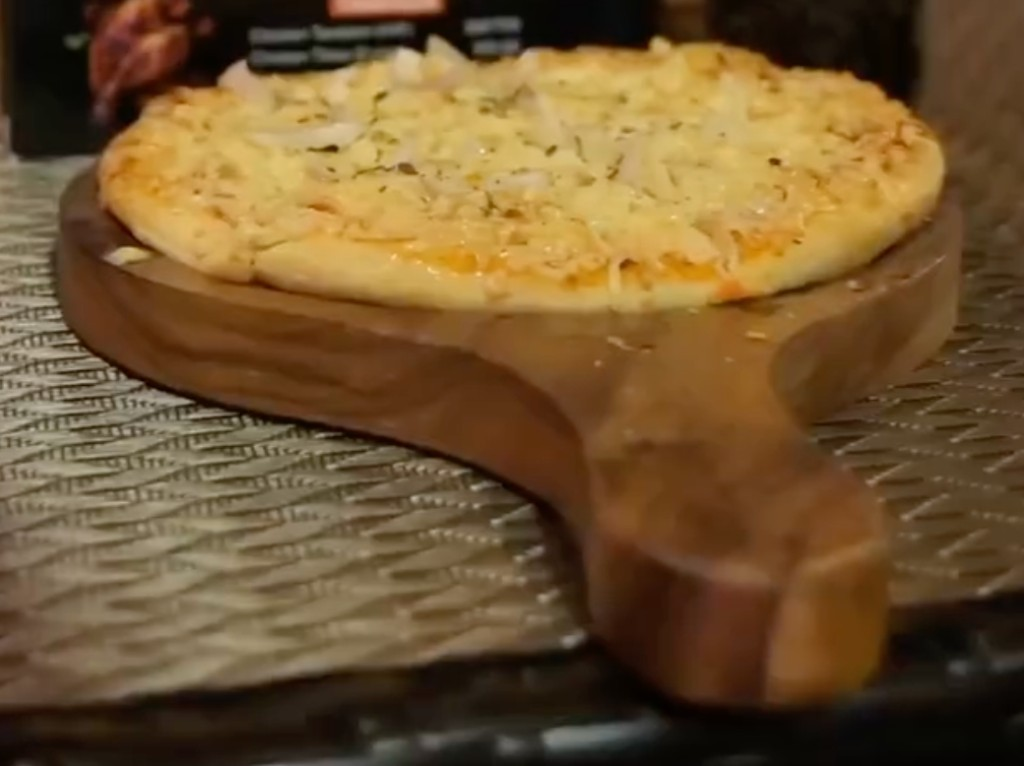
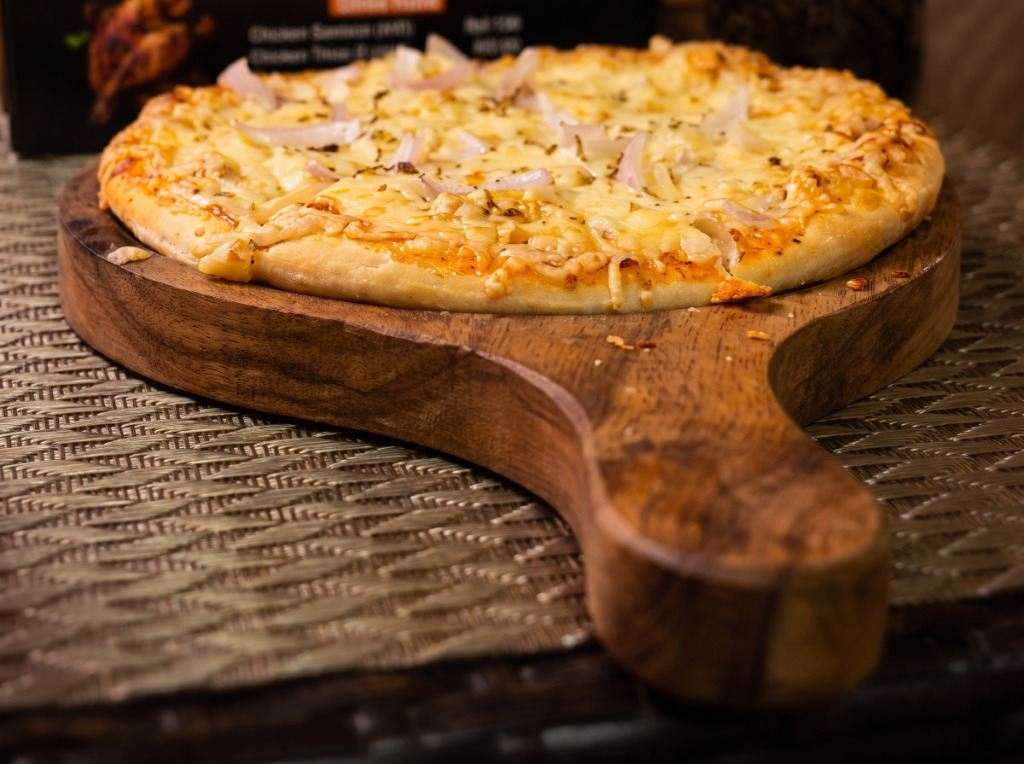
feat: replace stock photos with 5 high-resolution real food and outdoor garden photos
- Replace photo-drink.jpg, photo-roll.jpg, photo-pizza.jpg with high-res real ChatKara photography
- Add photo-ambiance.jpg and photo-patio.jpg showcasing ChatKara's outdoor garden seating under purple ambient lights
- Update homepage gallery grid to feature all 5 photos seamlessly with subtle hover scaling

diff --git a/src/app/page.tsx b/src/app/page.tsx
@@ -110,44 +110,54 @@ export default function HomePage() {
         </div>
 
         <div className="mt-6 grid grid-cols-2 gap-3">
-          <div className="overflow-hidden rounded-2xl border border-line">
-            <Image
-              src="/photo-pizza.jpg"
-              alt="Cheese pizza at ChatKara"
-              width={1024}
-              height={766}
-              className="h-36 w-full object-cover"
-              sizes="220px"
-            />
-          </div>
-          <div className="overflow-hidden rounded-2xl border border-line">
-            <Image
-              src="/photo-tikka.jpg"
-              alt="Fresh lemon over grilled tikka"
-              width={934}
-              height={1024}
-              className="h-36 w-full object-cover"
-              sizes="220px"
-            />
-          </div>
-          <div className="overflow-hidden rounded-2xl border border-line">
+          <div className="overflow-hidden rounded-2xl border border-line shadow-md">
             <Image
               src="/photo-roll.jpg"
-              alt="Hand-rolled egg roll being prepared"
+              alt="Handcrafted Kathi Roll at ChatKara"
               width={1024}
-              height={924}
-              className="h-36 w-full object-cover"
-              sizes="220px"
+              height={1024}
+              className="h-40 w-full object-cover transition duration-300 hover:scale-105"
+              sizes="(max-width: 768px) 50vw, 250px"
             />
           </div>
-          <div className="overflow-hidden rounded-2xl border border-line">
+          <div className="overflow-hidden rounded-2xl border border-line shadow-md">
+            <Image
+              src="/photo-pizza.jpg"
+              alt="Freshly baked cheese pizza on wooden paddle"
+              width={1024}
+              height={764}
+              className="h-40 w-full object-cover transition duration-300 hover:scale-105"
+              sizes="(max-width: 768px) 50vw, 250px"
+            />
+          </div>
+          <div className="col-span-2 overflow-hidden rounded-2xl border border-line shadow-md">
             <Image
               src="/photo-drink.jpg"
-              alt="Fresh drink served at ChatKara"
-              width={782}
+              alt="Refreshing drinks & mocktails at ChatKara bar"
+              width={764}
               height={1024}
-              className="h-36 w-full object-cover"
-              sizes="220px"
+              className="h-48 w-full object-cover object-center transition duration-300 hover:scale-105"
+              sizes="(max-width: 768px) 100vw, 500px"
+            />
+          </div>
+          <div className="overflow-hidden rounded-2xl border border-line shadow-md">
+            <Image
+              src="/photo-ambiance.jpg"
+              alt="Outdoor garden seating with purple ambient lighting"
+              width={764}
+              height={1024}
+              className="h-40 w-full object-cover transition duration-300 hover:scale-105"
+              sizes="(max-width: 768px) 50vw, 250px"
+            />
+          </div>
+          <div className="overflow-hidden rounded-2xl border border-line shadow-md">
+            <Image
+              src="/photo-patio.jpg"
+              alt="Patio dining setup under umbrellas at ChatKara"
+              width={764}
+              height={1024}
+              className="h-40 w-full object-cover transition duration-300 hover:scale-105"
+              sizes="(max-width: 768px) 50vw, 250px"
             />
           </div>
         </div>